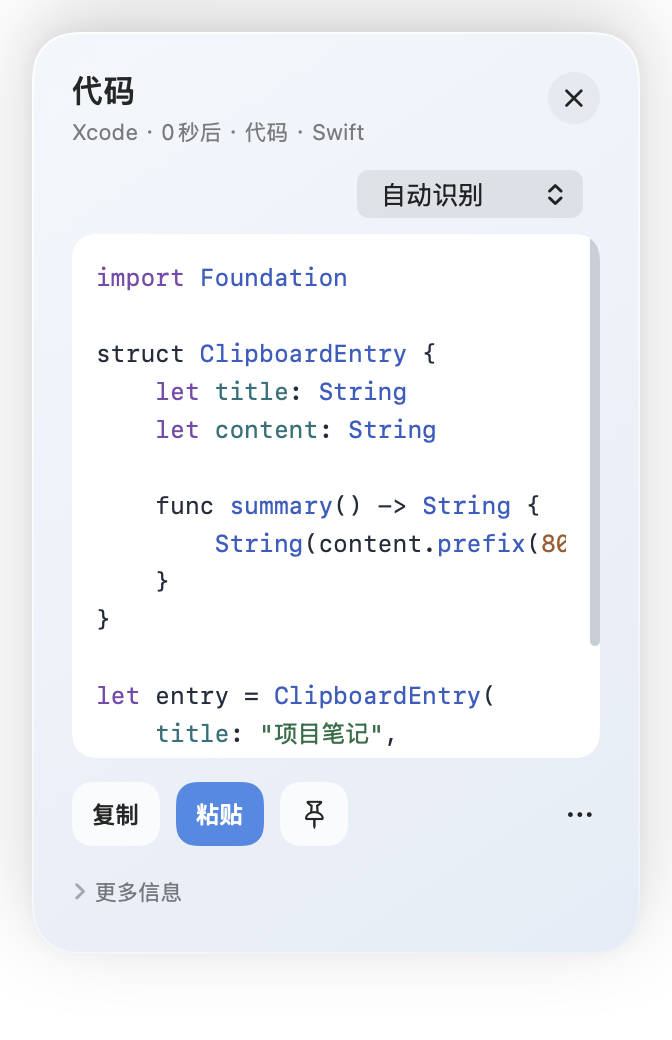
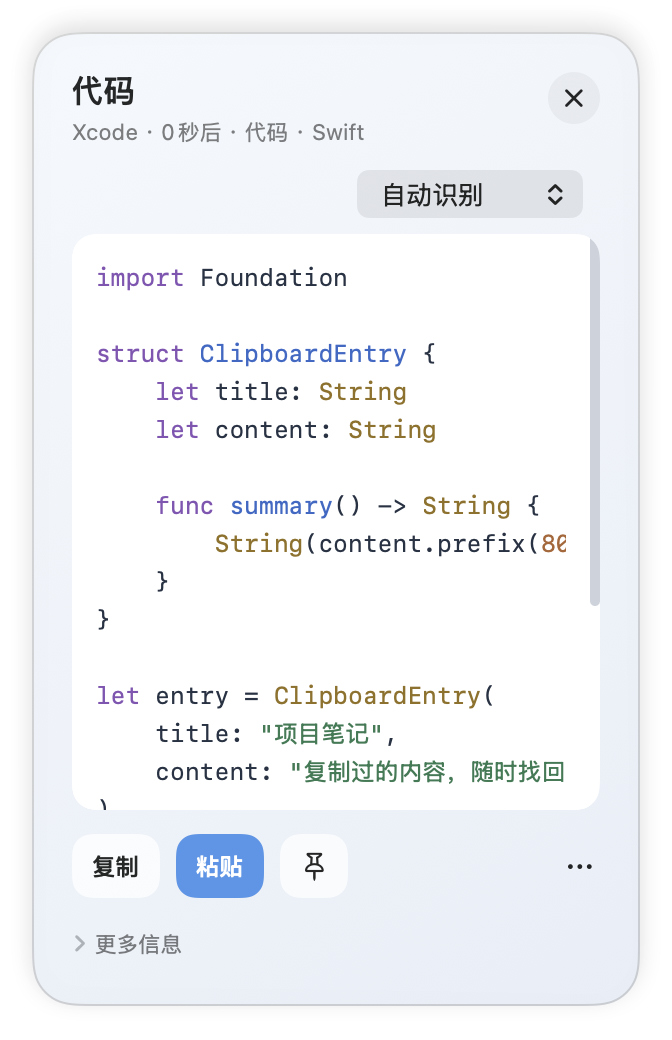
docs: equalize detail cards and use compact presentation shadows

diff --git a/Tests/ClipFlowAppTests/DocumentationScreenshotTests.swift b/Tests/ClipFlowAppTests/DocumentationScreenshotTests.swift
@@ -118,6 +118,12 @@ final class DocumentationScreenshotTests: XCTestCase {
             content: "复制过的内容，随时找回。"
         )
         print(entry.summary())
+
+        let entries = [entry]
+        let titles = entries.map { $0.title }
+        for title in titles {
+            print(title)
+        }
         """
         let markdownText = """
         # 项目笔记
@@ -135,6 +141,14 @@ final class DocumentationScreenshotTests: XCTestCase {
         ---
 
         下一步：整理版本说明，检查下载链接。
+
+        ## 发布检查
+
+        - 检查快捷键
+        - 检查历史记录
+        - 检查图片缩放
+        - 更新下载页面
+        - 整理使用反馈
         """
         let code = ClipboardClassifier.makeItem(text: codeText, sourceApp: "Xcode",
             sourceBundleID: nil, autoProtectSecrets: false, existingItem: nil)
@@ -144,7 +158,10 @@ final class DocumentationScreenshotTests: XCTestCase {
             ZStack(alignment: .top) {
                 Color.white
                 LibraryInspectorOverlay(item: item, store: store, palette: .resolve(for: .light),
-                    maxHeight: 564, contentWidth: 304, onClose: {}).frame(width: 304).padding(16)
+                    maxHeight: 564, contentWidth: 304, compactShadow: true, onClose: {}).frame(width: 304)
+                    .overlay(RoundedRectangle(cornerRadius: 22)
+                        .strokeBorder(Color.black.opacity(0.16), lineWidth: 1))
+                    .padding(16)
             }.frame(width: 336, height: 520)
         }
         try export(detail(code), size: NSSize(width: 336, height: 520), name: "code-detail")

diff --git a/Sources/ClipFlowApp/LayoutComponents.swift b/Sources/ClipFlowApp/LayoutComponents.swift
@@ -41,6 +41,7 @@ struct CleanGlassBackground: View {
 /// Detail overlays need a distinct floating shell, separate from the flat page cards.
 struct DetailGlassBackground: View {
     var cornerRadius: CGFloat = 26
+    var compactShadow = false
     @Environment(\.colorScheme) private var colorScheme
     @Environment(\.accessibilityReduceTransparency) private var reduceTransparency
 
@@ -54,8 +55,9 @@ struct DetailGlassBackground: View {
         .overlay(shape.strokeBorder(LinearGradient(colors: [
             .white.opacity(dark ? 0.32 : 0.85), .white.opacity(dark ? 0.08 : 0.26)
         ], startPoint: .topLeading, endPoint: .bottomTrailing), lineWidth: 1))
-        .shadow(color: .black.opacity(dark ? 0.32 : 0.16), radius: 24, y: 12)
-        .shadow(color: .black.opacity(dark ? 0.12 : 0.05), radius: 4, y: 2)
+        .shadow(color: .black.opacity(compactShadow ? 0.12 : (dark ? 0.32 : 0.16)),
+            radius: compactShadow ? 6 : 24, y: compactShadow ? 3 : 12)
+        .shadow(color: .black.opacity(compactShadow ? 0 : (dark ? 0.12 : 0.05)), radius: 4, y: 2)
         .allowsHitTesting(false)
     }
 }

diff --git a/Sources/ClipFlowApp/ContentView.swift b/Sources/ClipFlowApp/ContentView.swift
@@ -452,6 +452,7 @@ struct LibraryInspectorOverlay: View {
     let palette: ClipFlowPalette
     let maxHeight: CGFloat
     var contentWidth: CGFloat = 438
+    var compactShadow = false
     var onPasteAction: (() -> Void)? = nil
     let onClose: () -> Void
     @Environment(\.colorScheme) private var textColorScheme
@@ -598,7 +599,7 @@ struct LibraryInspectorOverlay: View {
             .font(.system(size: 11)).foregroundStyle(.secondary)
         }
         .padding(20)
-        .background(DetailGlassBackground(cornerRadius: 22))
+        .background(DetailGlassBackground(cornerRadius: 22, compactShadow: compactShadow))
         .onChangeBackward(of: item.id) { showsInfo = false; copyFeedback = nil; showsMarkdownPreview = false; codeLanguage = "自动识别" }
     }
 
